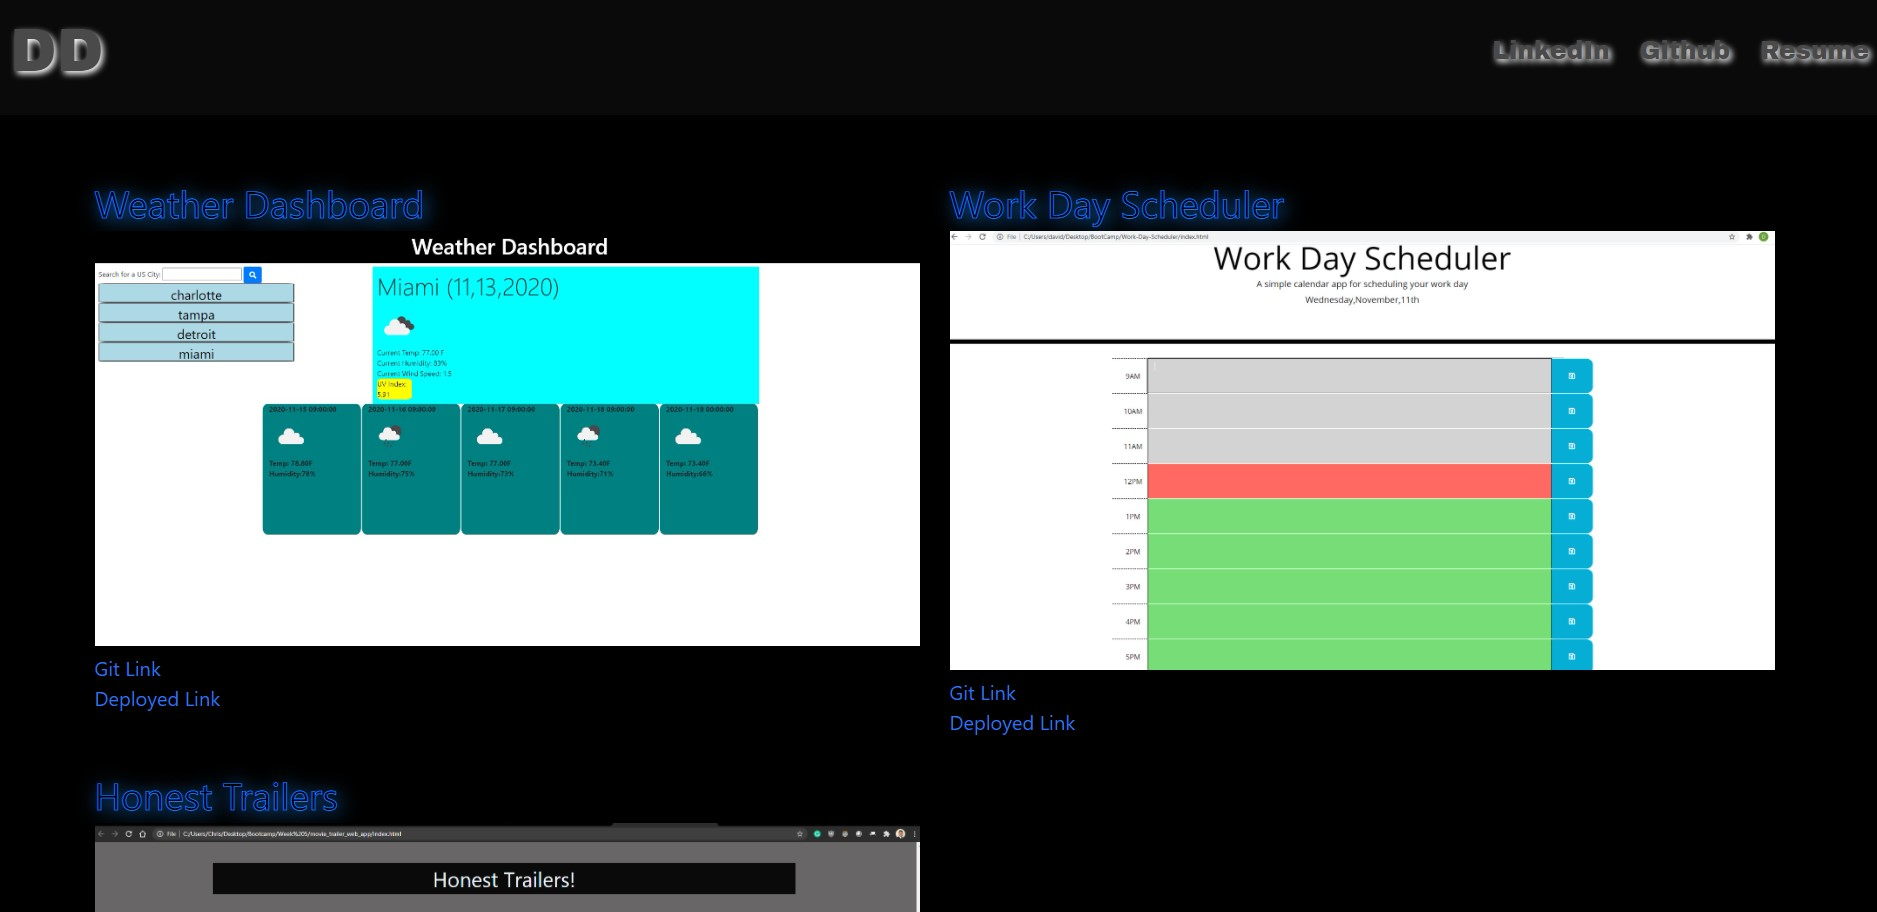
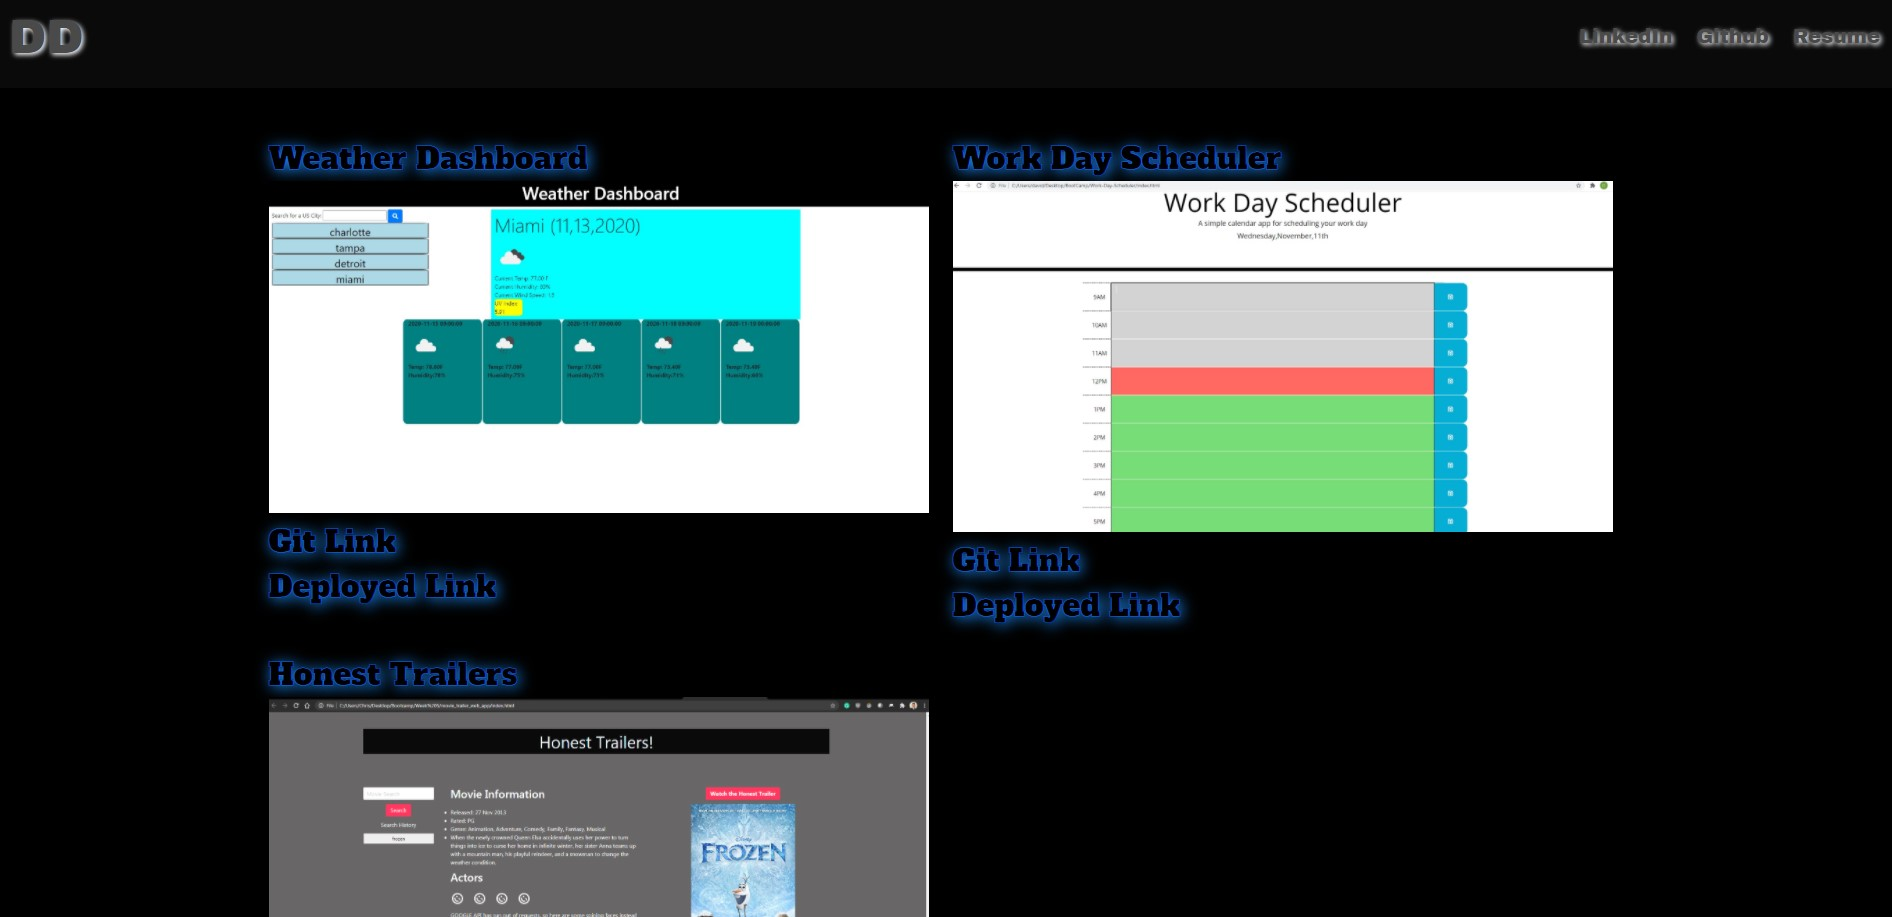
made a few css changes

diff --git a/portfolio.html b/portfolio.html
@@ -55,9 +55,9 @@
                     <img src="https://github.com/daviddugle/Weather-Dashboard/blob/main/assets/Photos/Screenshot%202020-11-13%20204346.jpg?raw=true"
                         alt="weather dashboard">
                     <div class="links">
-                        <a href="https://github.com/daviddugle/Weather-Dashboard" target="_blank">Git Link</a>
+                        <a class="link" href="https://github.com/daviddugle/Weather-Dashboard" target="_blank">Git Link</a>
                         <p></p>
-                        <a class="justify-content-end" href="https://daviddugle.github.io/Weather-Dashboard/" target="_blank">Deployed
+                        <a class="justify-content-end link" href="https://daviddugle.github.io/Weather-Dashboard/" target="_blank">Deployed
                             Link</a>
                     </div>
                 </div>
@@ -66,9 +66,9 @@
                     <img src="https://github.com/daviddugle/Work-Day-Scheduler/blob/main/assets/Screenshot%202020-11-11%20125954.jpg?raw=true"
                         alt="Work Day Scheduler">
                     <div class="links">
-                        <a href="https://github.com/daviddugle/Work-Day-Scheduler" target="_blank">Git Link</a>
+                        <a class="link" href="https://github.com/daviddugle/Work-Day-Scheduler" target="_blank">Git Link</a>
                         <p></p>
-                        <a href="https://daviddugle.github.io/Work-Day-Scheduler/" target="_blank">Deployed Link</a>
+                        <a class="link" href="https://daviddugle.github.io/Work-Day-Scheduler/" target="_blank">Deployed Link</a>
                     </div>
                 </div>
             </div>
@@ -78,9 +78,9 @@
                     <img src="https://raw.githubusercontent.com/v-lax/movie_trailer_web_app/main/assets/deployed.png"
                         alt="Honest Trailers">
                     <div class="links">
-                        <a href="https://github.com/v-lax/movie_trailer_web_app" target="_blank">Git Link</a>
+                        <a class="link" href="https://github.com/v-lax/movie_trailer_web_app" target="_blank">Git Link</a>
                         <p></p>
-                        <a href="https://v-lax.github.io/movie_trailer_web_app/index.html" target="_blank">Deployed Link</a>
+                        <a class="link" href="https://v-lax.github.io/movie_trailer_web_app/index.html" target="_blank">Deployed Link</a>
                     </div>
                 </div>
             </div>

diff --git a/assets/style.css b/assets/style.css
@@ -3,6 +3,8 @@
     vertical-align: auto;
     border: 2px dodgerblue;
     text-shadow: 2px 2px 15px dodgerblue;
+    -webkit-text-stroke-width: .25px;
+    -webkit-text-stroke-color: dodgerblue;
 
     
 }
@@ -29,11 +31,17 @@ nav{
 }
 .first-card,
 .second-card,
-.third-card
+.third-card,
+.link
 {
     color: black;
     font-size: 30px;
     text-shadow: 2px 2px 15px dodgerblue;
-    -webkit-text-stroke-width: .5px;
-    -webkit-text-stroke-color: dodgerblue
+    -webkit-text-stroke-width: .25px;
+    -webkit-text-stroke-color: dodgerblue;
+    font-family: 'Alfa Slab One', cursive;
+}
+.modal-content{
+    font-size: 24px;
+
 }

diff --git a/index.html b/index.html
@@ -22,7 +22,7 @@
     <!-- going to need a navbar -->
     <nav class="navbar has-background-black has-text-dark is-transparent">
         <div class="navbar-init">
-            <a href="#" class="navbar-item">
+            <a href="index.html" class="navbar-item">
                 <p id="initials" class="py-2 px-2 is-size-1">DD</p>
             </a>
             <a class="navbar-burger" id="burger">
